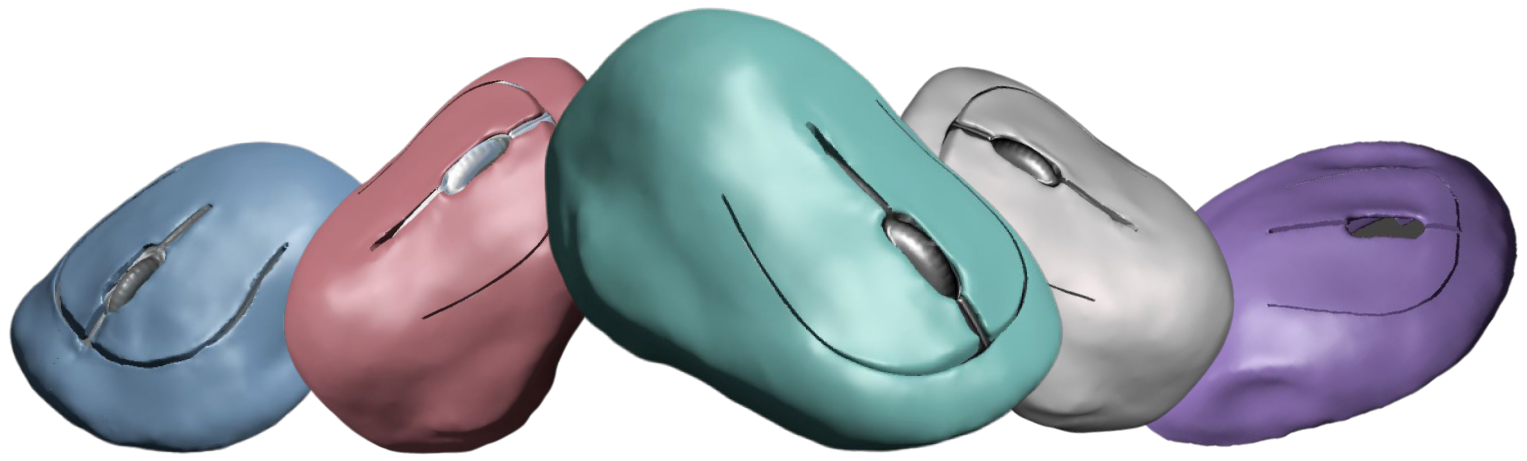
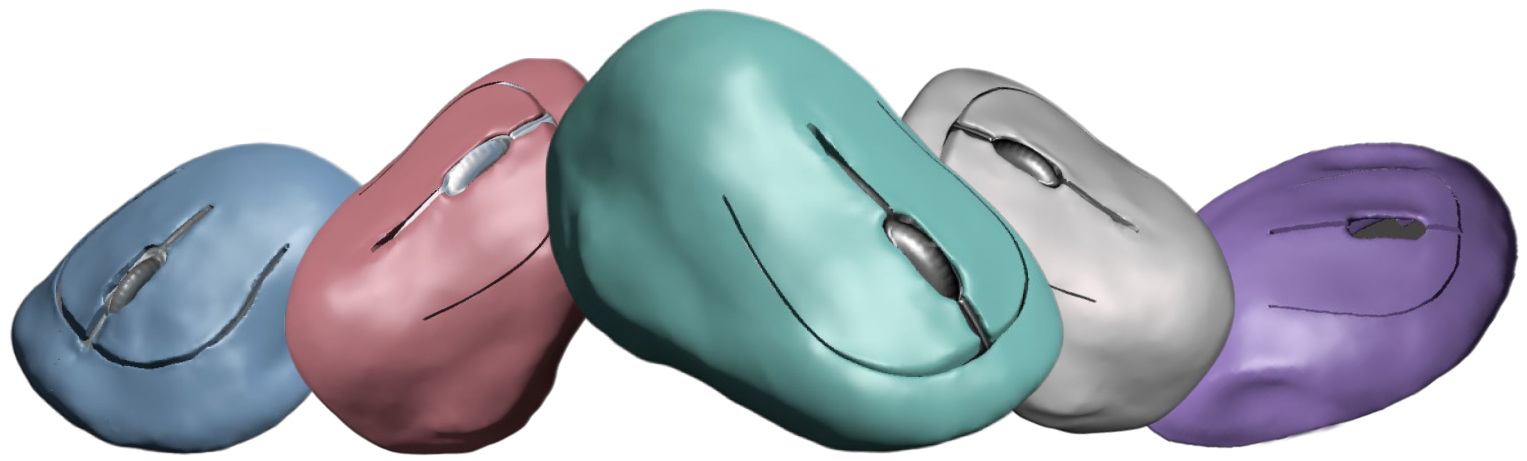
facelift

diff --git a/index.html b/index.html
@@ -15,8 +15,8 @@
 
     <div class="header">
         <div class="mice-pics">
-            <div class="mice"><img src="http://tierrasharae.github.io/customiced/img/mice2.png" alt="Customiced"></div>
-            <div class="mice"><img src="http://tierrasharae.github.io/customiced/img/mice2flip.png" alt="Customiced"></div>
+            <div class="mice"><img src="http://tierrasharae.github.io/customiced/img/mice.png" alt="Customiced"></div>
+            <div class="mice"><img src="http://tierrasharae.github.io/customiced/img/mice_r.png" alt="Customiced"></div>
         </div>
         <div class="mice-text">
             <h1>the future is customiced.</h1>
